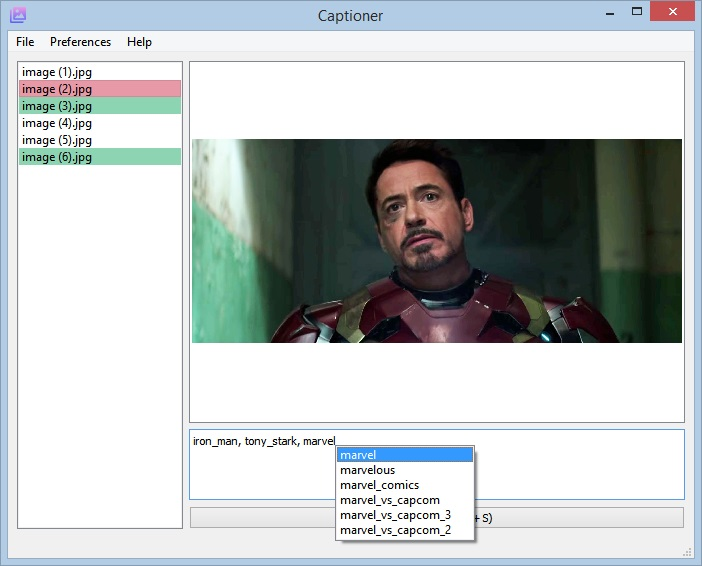
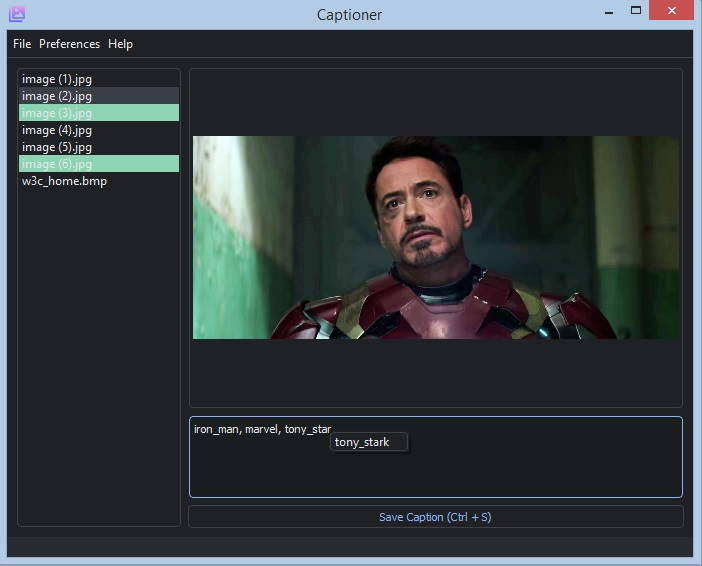
dark mode 🌝
added dark mode theme 🌝

diff --git a/src/ui/Theme.py b/src/ui/Theme.py
@@ -8,9 +8,8 @@
 # run again.  Do not edit this file unless you know what you are doing.
 
 import os
-
+import logging
 from PyQt5 import QtCore, QtGui, QtWidgets
-
 
 
 # qt
@@ -57,6 +56,43 @@ class _Ui_Dialog(object):
         self.comboStyle.setStatusTip(_translate("Dialog", "Theme"))
 
 
+def get_all_themes():
+    # get inbuilt themes
+    results = QStyleFactory.keys()
+    try:
+        import qdarktheme
+        for theme in qdarktheme.get_themes():
+            results.append("qdark_" + theme)
+    except:
+        logging.info("qdarkthem module is not installed")
+        
+    # return
+    return results
+
+def apply_theme(current_style: str, app: QtWidgets.QApplication = None, ):
+    
+    # check if the app is provided
+    if not app:
+        app = QtWidgets.QApplication.instance()
+    
+    # reset style
+    app.setStyleSheet("")
+    
+    # check installed themes
+    if "qdark_" in current_style:
+        try:
+            from qdarktheme._style_loader import load_palette, load_stylesheet
+            style = load_stylesheet(theme=current_style.replace("qdark_", ""))
+            app.setStyleSheet(style)
+        except Exception as e:
+            logging.exception(e)
+            logging.info("pyqtdark module is not installed")
+
+    else:
+        # included qt theme
+        app.setStyle(current_style)
+
+
 
 class ThemeChooseDlg(QDialog, _Ui_Dialog):
     def __init__(self,parent=None):
@@ -68,12 +104,13 @@ class ThemeChooseDlg(QDialog, _Ui_Dialog):
         
     def list_themes(self):
         # list themes
-        self.comboStyle.addItems(QStyleFactory.keys())
+        self.comboStyle.addItems(get_all_themes())
         
         # find current style
         index = self.comboStyle.findText(
-                    QtWidgets.qApp.style().objectName(),
-                    QtCore.Qt.MatchFixedString)
+                    QtWidgets.QApplication.instance().property("current_style"),
+                    QtCore.Qt.MatchFixedString
+        )
         
         # set current style
         self.comboStyle.setCurrentIndex(index)

diff --git a/run.py b/run.py
@@ -2,7 +2,6 @@
 # @license: MIT
 # A program to assist in tagging of images
 
-
 import sys
 import logging
 import shelve # for settings
@@ -36,7 +35,7 @@ from PyQt5.QtWidgets import qApp
 
 # Use MainWindow UI
 from src.ui.MainWindow import Ui_MainWindow
-from src.ui.Theme import ThemeChooseDlg
+from src.ui.Theme import ThemeChooseDlg, apply_theme
 
     
 __version__ = 0.2
@@ -304,8 +303,15 @@ class MainWindow(QtWidgets.QMainWindow, Ui_MainWindow):
         """
         dlg = ThemeChooseDlg()
         if dlg.exec_():
+            
+            # get returned value
             values = dlg.getResult()
-            QtWidgets.QApplication.setStyle(values)
+            
+            # apply theme
+            apply_theme(values)
+            
+            # property
+            QtWidgets.QApplication.instance().setProperty("current_style", values)
             
             # save current settings
             try:
@@ -367,25 +373,25 @@ class MainWindow(QtWidgets.QMainWindow, Ui_MainWindow):
         
 
 
-
 if __name__ == "__main__":
-    # check and read style
-    current_style = None
+    
+    # Run
+    app = QtWidgets.QApplication(sys.argv)
+    app.setProperty("current_style", None)
     
     # read settings
     if os.path.exists("config.dat"):
         try:
             with shelve.open("config") as settings:
-                if "current_style" in settings: current_style = settings["current_style"]
+                if "current_style" in settings: app.setProperty("current_style", settings["current_style"])
         except Exception as e:
             logging.exception(e)
         finally: pass
 
-    # Run
-    app = QtWidgets.QApplication(sys.argv)
     
-    # Style
-    if current_style: app.setStyle(current_style)
+    # current style
+    if app.property("current_style"):
+        apply_theme(app.property("current_style"))
     
     # Windows
     window = MainWindow()

diff --git a/src/utils.py b/src/utils.py
@@ -1,6 +1,7 @@
 import os
 from glob import glob
 
+
 def list_images(path,recursive=False):
     """
         Returns a list of file paths
@@ -31,3 +32,4 @@ def is_empty(file_path):
         Returns true if the filesize equals to 0 bytes
     """
     return os.path.exists(file_path) and os.stat(file_path).st_size == 0
+
